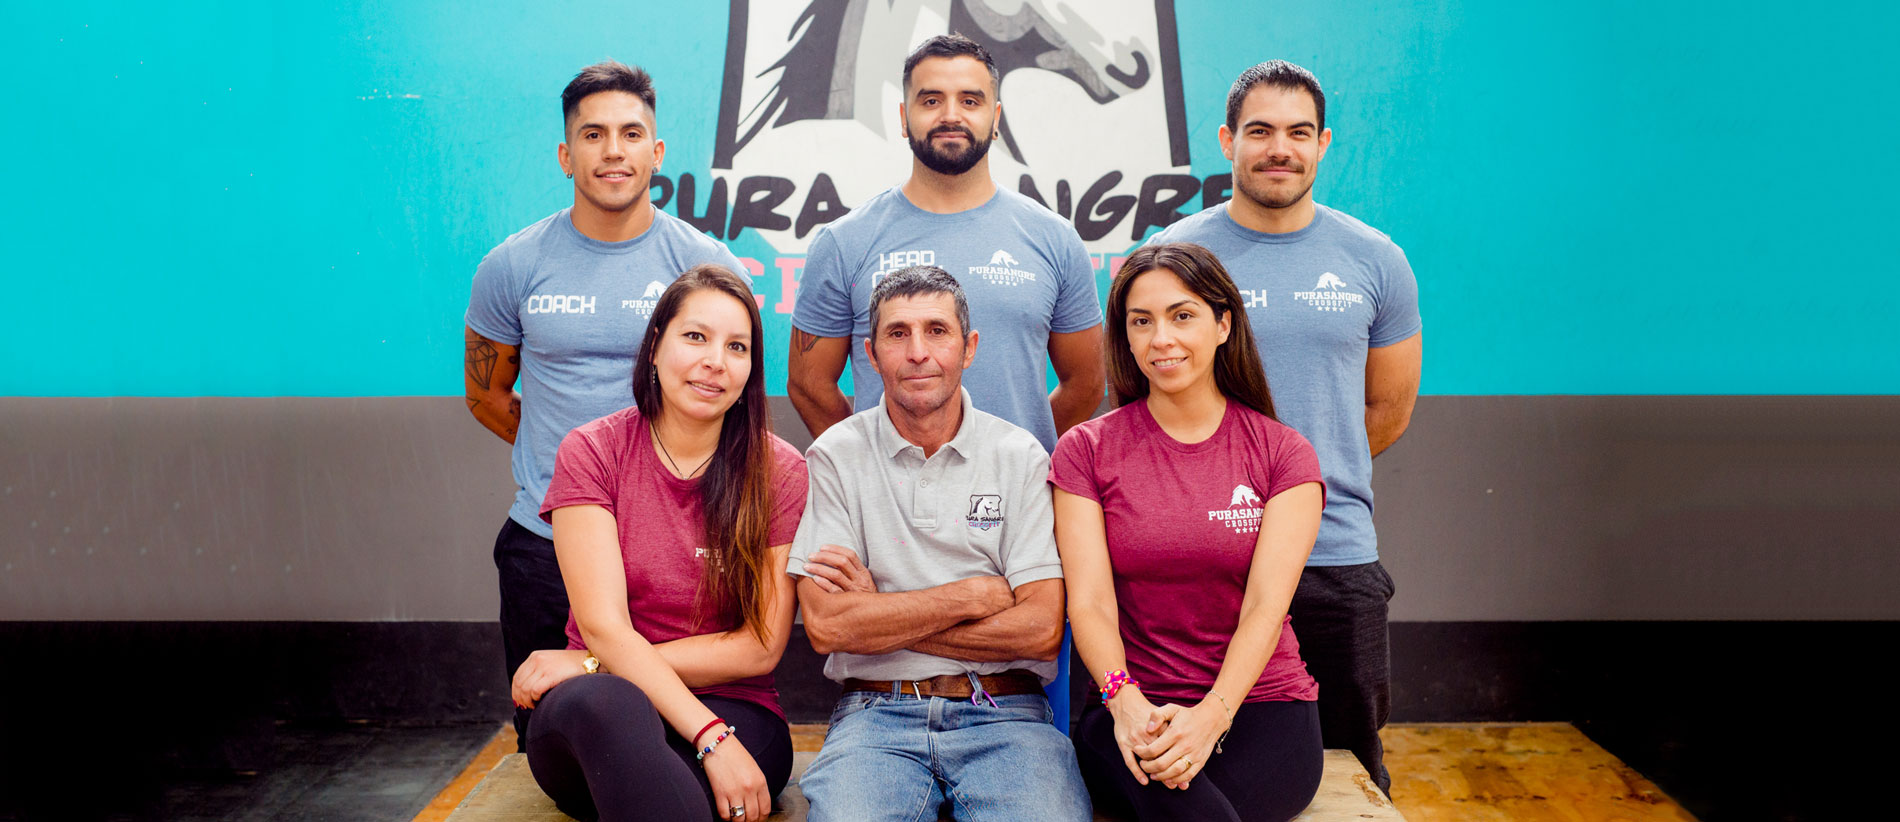
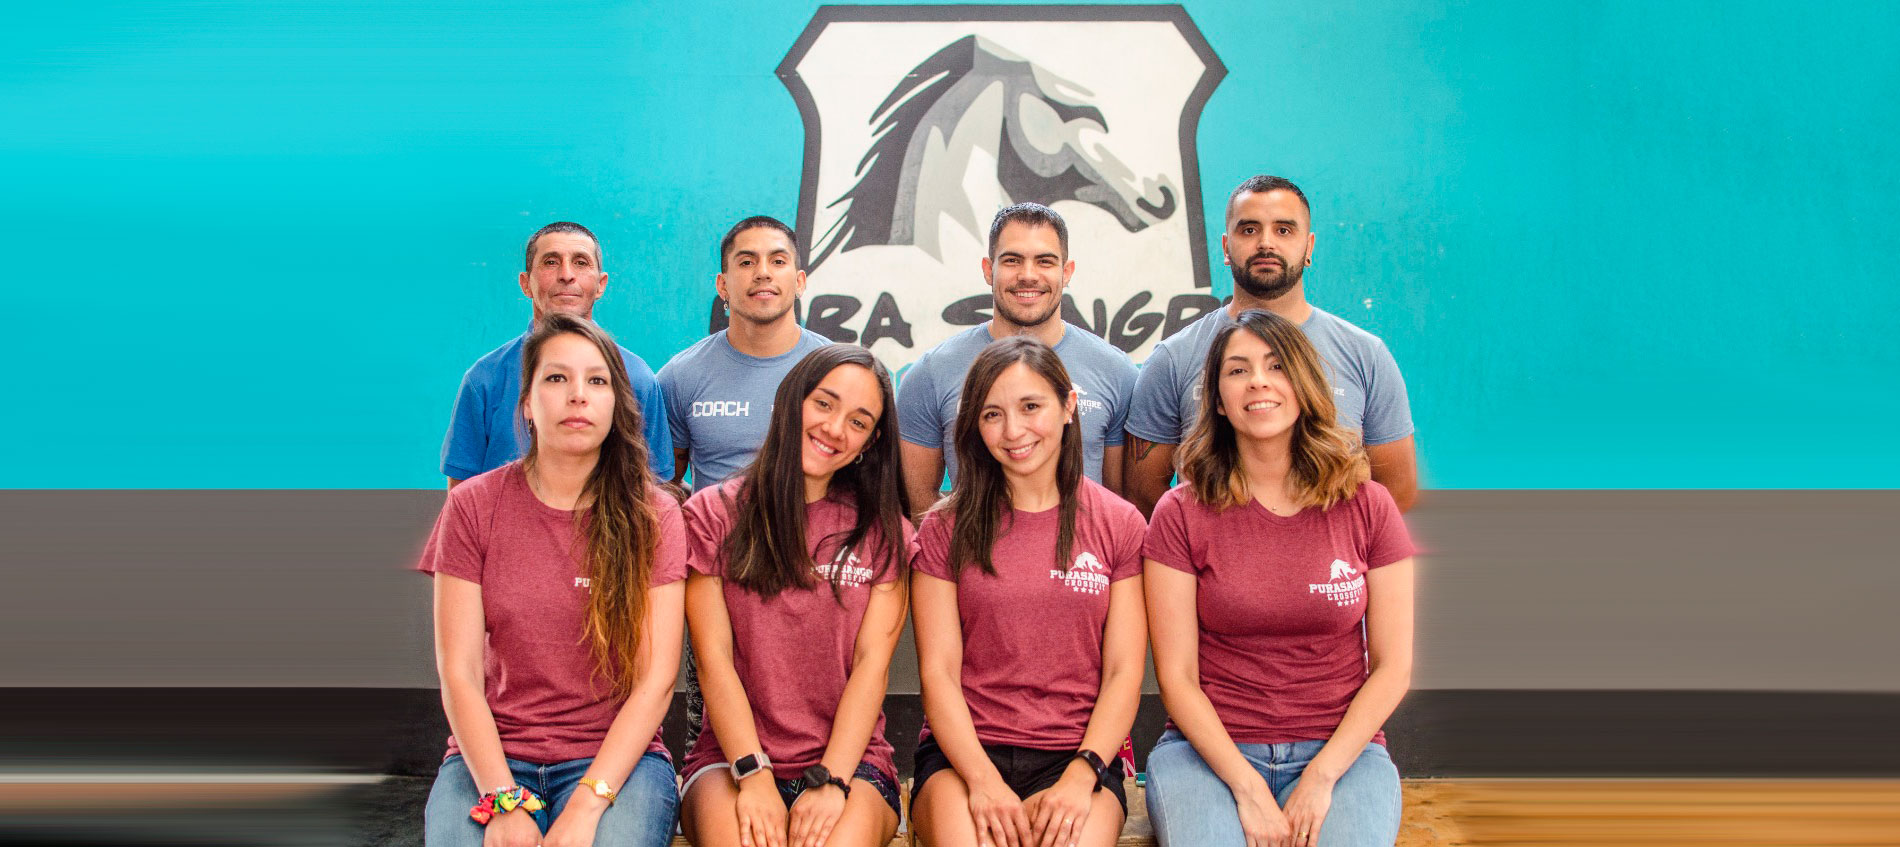
ps mod 1

diff --git a/public/css/pura-sangre-crossfit.webflow.css b/public/css/pura-sangre-crossfit.webflow.css
@@ -1280,7 +1280,7 @@ div#fb-root {
 
 .heading-page.heading-equipo {
   background-image: linear-gradient(180deg, rgba(0, 0, 0, .75), rgba(0, 0, 0, .75)), url('../images/heading-equipo.jpg');
-  background-position: 0px 0px, 50% 0%;
+  background-position: 0px 0px, 50% 50%;
   background-size: cover;
   background-repeat: no-repeat;
 }
@@ -1663,6 +1663,20 @@ div#fb-root {
 
 .card-hernan {
   background-image: url('../images/team-4.jpg');
+  /* background-position: -216px; */
+  background-position: center;
+  background-size: cover;
+}
+
+.card-cata {
+  background-image: url('../images/team-12.jpg');
+  /* background-position: -216px; */
+  background-position: center;
+  background-size: cover;
+}
+
+.card-catad {
+  background-image: url('../images/team-11.jpg');
   /* background-position: -216px; */
   background-position: center;
   background-size: cover;

diff --git a/resources/views/equipo.blade.php b/resources/views/equipo.blade.php
@@ -71,6 +71,46 @@
         </div>
 
         <div class="team-card">
+          <div id="w-node-02b4b975399e-65cc393a" class="card-img card-cata"></div>
+          <div id="w-node-02b4b975399f-65cc393a" class="card-data">
+            <h2 class="card-team-title clipped">Catalina Bravo C</h2>
+            <h5 class="card-team-cargo">Coach</h5>
+            <div class="info-data">
+              <div id="w-node-02b4b97539a5-65cc393a" class="card-team-text">
+                Tehto<br><br>
+                <strong>Grados</strong>: Profesora de Educación física
+              </div>
+              <div id="w-node-02b4b97539ac-65cc393a" class="card-team-text">
+                <strong>Certificaciones</strong><br>
+                - Magister en Motricidad<br>
+                - Coach GRIT de Less Mills<br>
+                - Atleta de Running y Trail Running<br>
+                - Corredora de Fondo<br>
+              </div>
+            </div>
+          </div>
+        </div>
+
+        <div class="team-card">
+          <div id="w-node-02b4b975399e-65cc393a" class="card-img card-catad"></div>
+          <div id="w-node-02b4b975399f-65cc393a" class="card-data">
+            <h2 class="card-team-title clipped">Catalina Davila</h2>
+            <h5 class="card-team-cargo">Coach</h5>
+            <div class="info-data">
+              <div id="w-node-02b4b97539a5-65cc393a" class="card-team-text">
+                Tehto<br><br>
+                <strong>Grados</strong>: Profesora de Educación física y de Danza Educativa
+              </div>
+              <div id="w-node-02b4b97539ac-65cc393a" class="card-team-text">
+                <strong>Certificaciones</strong><br>
+                - Diplomado en Personal Trainer<br>
+                - Atleta Fitness<br>
+              </div>
+            </div>
+          </div>
+        </div>
+
+        <div class="team-card">
           <div id="w-node-024e7e3bec96-65cc393a" class="card-img card-vania"></div>
           <div id="w-node-024e7e3bec97-65cc393a" class="card-data">
             <h2 class="card-team-title clipped">Vania Pérez</h2>

diff --git a/resources/views/planes.blade.php b/resources/views/planes.blade.php
@@ -30,6 +30,7 @@
       </div>
 
       <div class="page-planes-inner">
+
         <div class="plan-card plan-card-special">
           <div class="plan-card-data">
             <div class="card-heading">
@@ -56,6 +57,7 @@
           </div>
           <div class="plan-card-img plan-img-fullfit"></div>
         </div>
+
         <div class="plan-card">
           <div class="plan-card-img"></div>
           <div class="plan-card-data">
@@ -82,7 +84,9 @@
               <a href="https://wa.me/56940207699?text=Hola,%20quiero%20contratar%20el%20plan%2012%20Sesiones" target="_blank" class="plan-page-cta-button w-button" id="boton-whatsapp-plan-12"><img class="img-whatsapp" src="../images/whatsapp_icon.svg">Contratar via Whatsapp</a></div>
           </div>
         </div>
+
         <div class="plan-card-mini-wrapper">
+
           <div id="w-node-cd0ce9e33f58-43a9f64e" class="plan-card-mini">
             <div class="mini-img img-plan-am"></div>
             <div class="mini-data">
@@ -107,6 +111,7 @@
               <div class="plan-button-container"><a href="https://wa.me/56940207699?text=Hola,%20quiero%20contratar%20el%20plan%20Full%20AM" target="_blank" class="plan-page-cta-button w-button" id="boton-whatsapp-plan-am"><img class="img-whatsapp" src="../images/whatsapp_icon.svg">Contratar via Whatsapp</a></div>
             </div>
           </div>
+
           <div id="w-node-4d1281a24382-43a9f64e" class="plan-card-mini">
             <div class="mini-img img-plan-estudiantes"></div>
             <div class="mini-data">
@@ -133,6 +138,7 @@
               <div class="plan-button-container"><a href="https://wa.me/56940207699?text=Hola,%20quiero%20contratar%20el%20plan%20Estudiantes" target="_blank" class="plan-page-cta-button w-button" id="boton-whatsapp-plan-estudiantes"><img class="img-whatsapp" src="../images/whatsapp_icon.svg">Contratar via Whatsapp</a></div>
             </div>
           </div>
+          
         </div>
 
         <div class="plan-card">

diff --git a/resources/views/layouts/footer.blade.php b/resources/views/layouts/footer.blade.php
@@ -8,8 +8,12 @@
         <a href="mailto:contacto@purasangrecrossfit.cl?subject=Mensaje%20desde%20purasangrecrossfit.cl" class="link-3" id="boton-email">contacto@purasangrecrossfit.cl</a>
       </div>
       <div class="info-text">
-        <strong>Horarios</strong><br>Lunes a Viernes de 07:00 a 22:00 hrs<br>
-        Sábados de 8:30 a 13:00 hrs
+        <strong>Lunes a Viernes</strong><br>
+        07:00 a 13:00 hrs - 16:00 a 21:00 hrs<br>
+        <strong>Sábados</strong><br>
+        8:30 a 12:00 hrs<br>
+        <strong>Domingos</strong><br>
+        9:00 a 11:00 hrs
       </div>
     </div>
     <div id="w-node-1941aa1caff2-aa1cafe1" class="images">
